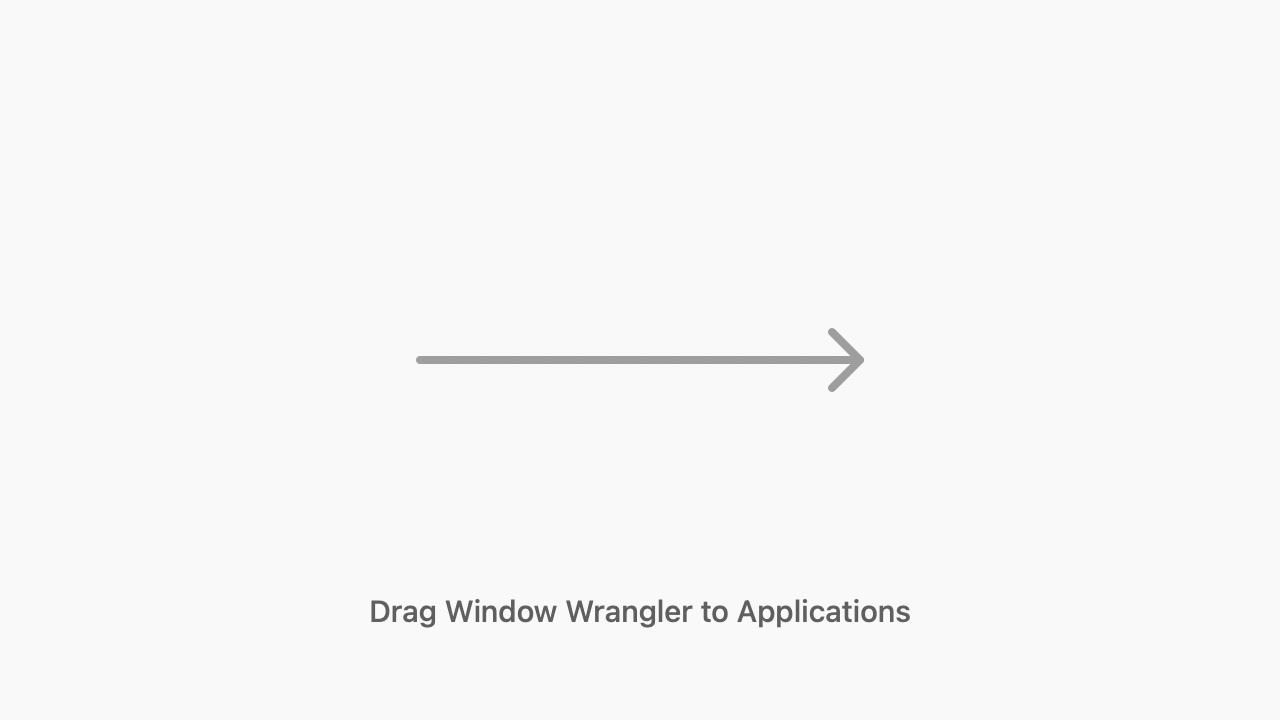
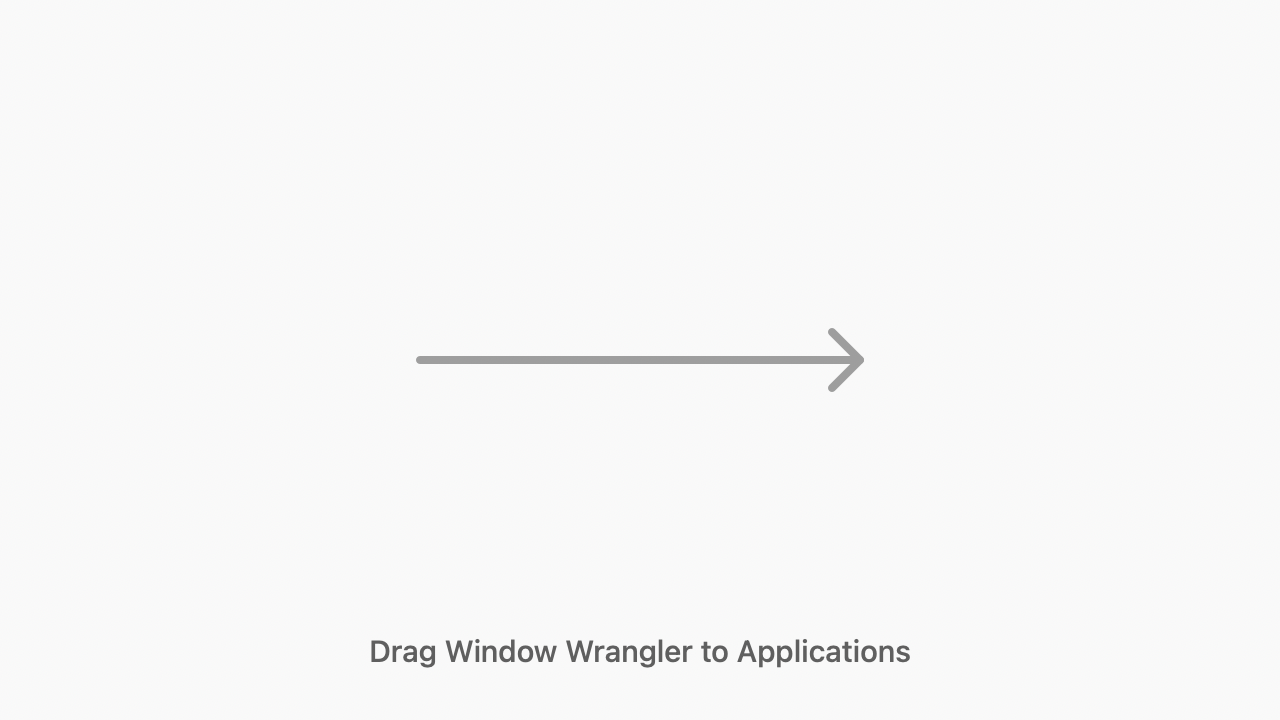
DMG background: lower caption to y=25 for real visible clearance
Empirical: at y=45 the caption still appeared close to the icon labels
in the built DMG despite the theoretical 55pt gap — Finder draws its
labels lower than my math predicted. y=25 gives about 25pt above the
window bottom edge, which lands the caption with actual visible
separation from the icon labels rather than crowded next to them.
Iterating visually rather than by geometry from here.

Changed region(s): [[0.2812, 0.825, 0.7188, 0.9472]]

diff --git a/scripts/generate-dmg-background.swift b/scripts/generate-dmg-background.swift
@@ -83,13 +83,15 @@ let captionAttributes: [NSAttributedString.Key: Any] = [
 let captionString = NSAttributedString(string: caption, attributes: captionAttributes)
 let captionSize = captionString.size()
 // Caption baseline y measured from the bottom of the 640×360 window.
-// Bottom edge of the 128pt icons sits near y=116; icon labels add
-// another ~25pt beneath. Caption at y=45 leaves ~46pt of breathing
-// room above and ~45pt below — visually centered in the space
-// between the icon row and the window bottom edge.
+// Finder draws its icon labels lower than a naive geometry calculation
+// suggests (the label baseline sits closer to the caption than icon-
+// bottom + typical-gap predicts), so we push the caption down further
+// than pure math would recommend. y=25 gives ~25pt of clearance from
+// the bottom edge while still leaving visible daylight between the
+// icon labels and the caption.
 let captionRect = NSRect(
     x: (width - captionSize.width) / 2,
-    y: 45,
+    y: 25,
     width: captionSize.width,
     height: captionSize.height
 )
